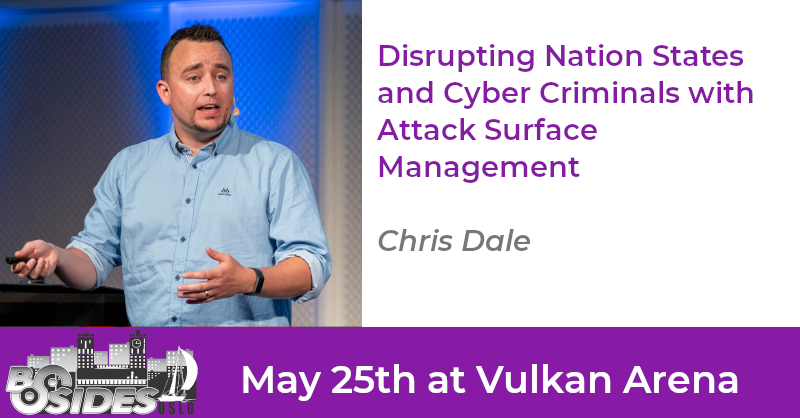
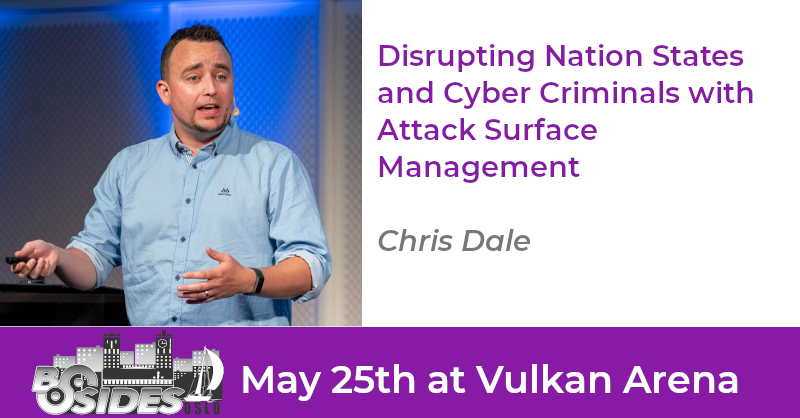
Added more talks and replaced all twittercards with revised version

Changed region(s): [[0.0, 0.7775, 0.2812, 0.9952]]

diff --git a/_talks/PracticalKubernetesSecurityatScale.md b/_talks/PracticalKubernetesSecurityatScale.md
@@ -1,0 +1,24 @@
+---
+layout: talks
+title: Practical Kubernetes Security at Scale
+length: 45
+card: PracticalKubernetesSecurityatScale.png
+speakers:
+- name: Birgir Stefansson
+  image: BirgirStefansson.jpg
+  bio: |
+    Birgir is a staff software engineer in Schibsted’s Developer Foundations team. 
+- name: Stian Kristoffersen
+  image: StianKristoffersen.png
+  bio: |
+    Stian is a staff security engineer in Schibsted’s Product & Application Security team. 
+    
+    In the past he has open sourced two security projects at Schibsted: Strongbox, a secrets manager, and Artishock, a tool to investigate dependency confusion.
+
+    Stian also presented his talk on [Dependency Confusion Deep Dive](https://de2021.bsidesoslo.no/talks/Dependency_Confusion_Deep_Dive.html) at BSides Oslo Digital Edition 2021
+---
+Over the past few years Kubernetes (k8s) has been adopted widely across Schibsted. Currently Schibsted manages about 100 k8s clusters centrally and that number is growing as more as Schibsted brands adopt k8s. 
+
+In this talk we will present what to consider and the trade-offs we made to improve security in those clusters. While most of the takeaways should be generally applicable, the examples will be from EKS clusters in AWS.
+
+We will look at k8s and EKS hardening as well as open source and commercial security tools. Security in k8s is a large topic and our goal is to focus on the most important best practices, while keeping the user experience in mind.   

diff --git a/_talks/IwillIDORmyselfin.md b/_talks/IwillIDORmyselfin.md
@@ -1,0 +1,20 @@
+---
+layout: talks
+title: I will IDOR myself in
+length: 45
+card: IwillIDORmyselfin.png
+speakers:
+- name: Vangelis Stykas
+  image: VangelisStykas.png
+  bio: |
+    Vangelis is a developer as well as Senior Penetration Tester at Pen Test Partners. His research is mainly in API and web application security.
+    
+    His academic research is focused on machine learning and the development of proactive web application security.
+
+    During his free time Vangelis helps start-ups secure themselves on the internet and get a leg-up on security.
+
+    During the past years he has published research regarding API control functions for ships, smart locks, IP cameras, EV chargers and many other IoT devices.       
+---
+How could attackers gain control of hundreds of million devices? In this talk Vangelis explains how attackers can exploit a series of simple, yet critical API flaws that are typical “rush to market” flaws which allow an attacker to control and even use them as an initial foothold in millions of networks.
+
+Devices vary from routers to alarms and car chargers. It seems that the era of “central platform” handling that solves a variety of problems (like port forwarding) backfired by re-introducing a number of vulnerabilities that were thought to be long gone.
